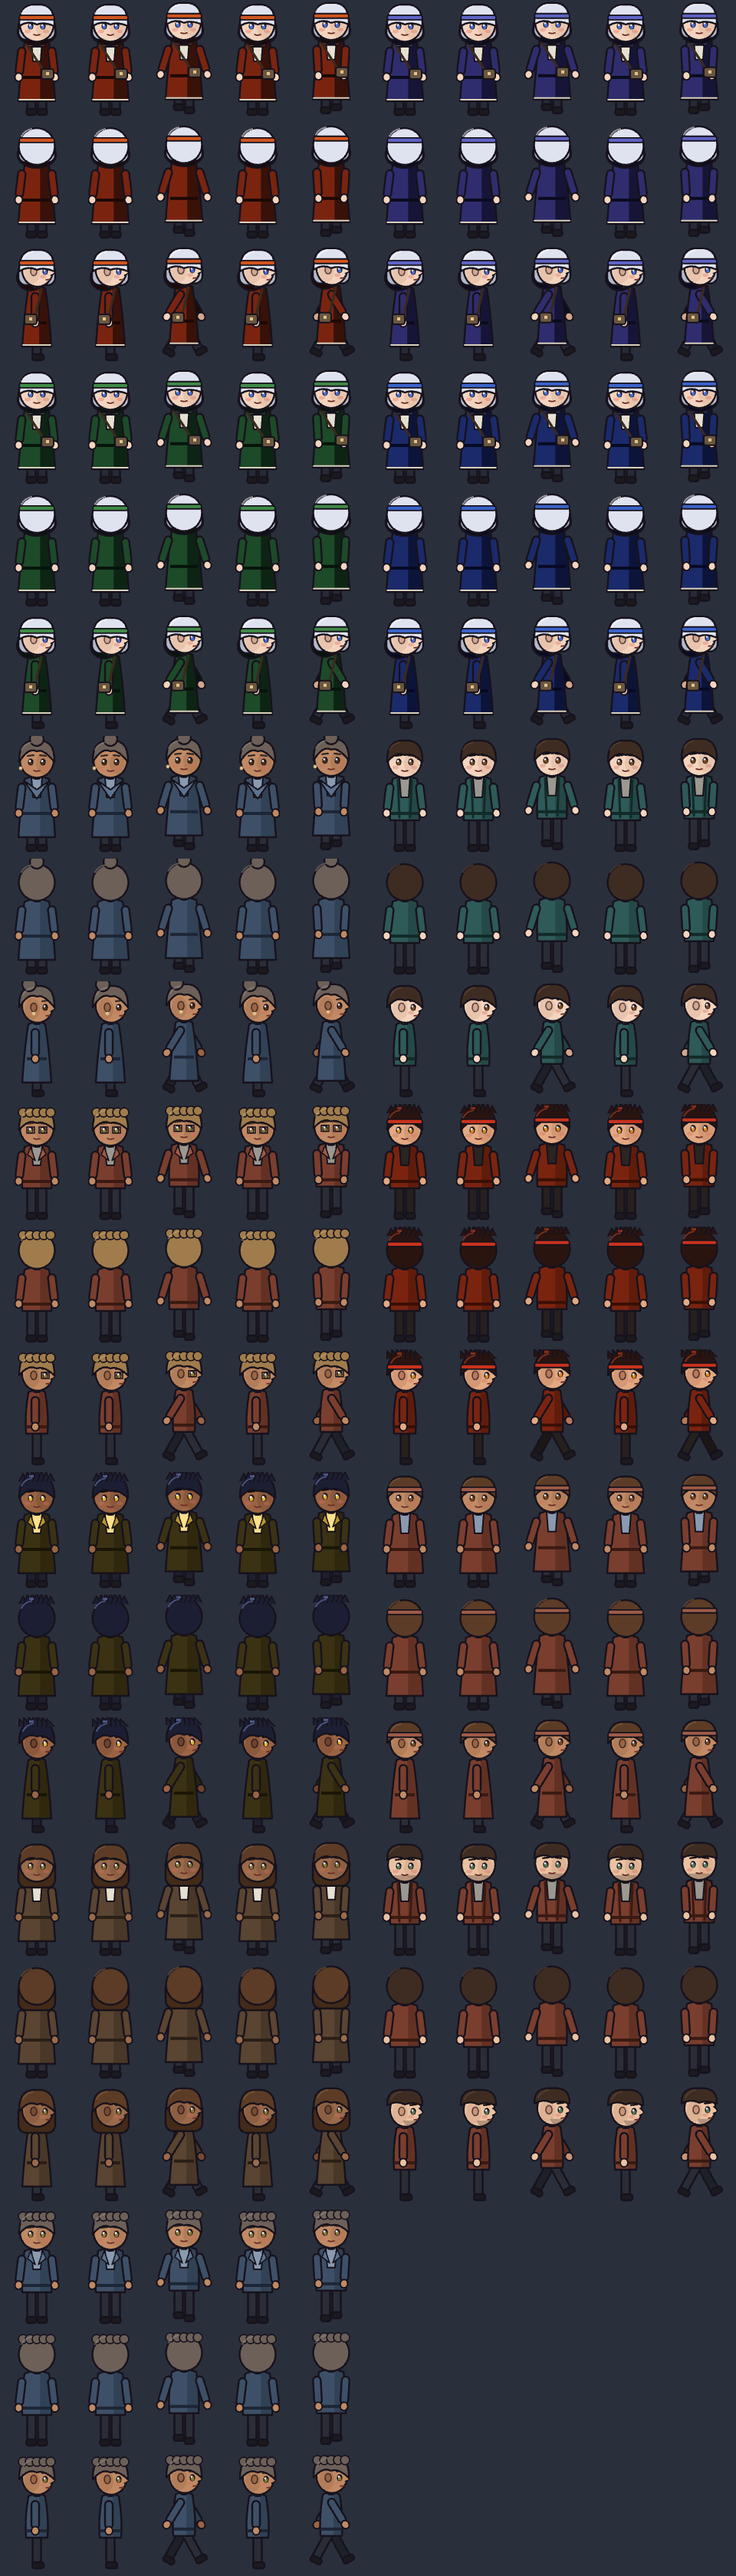
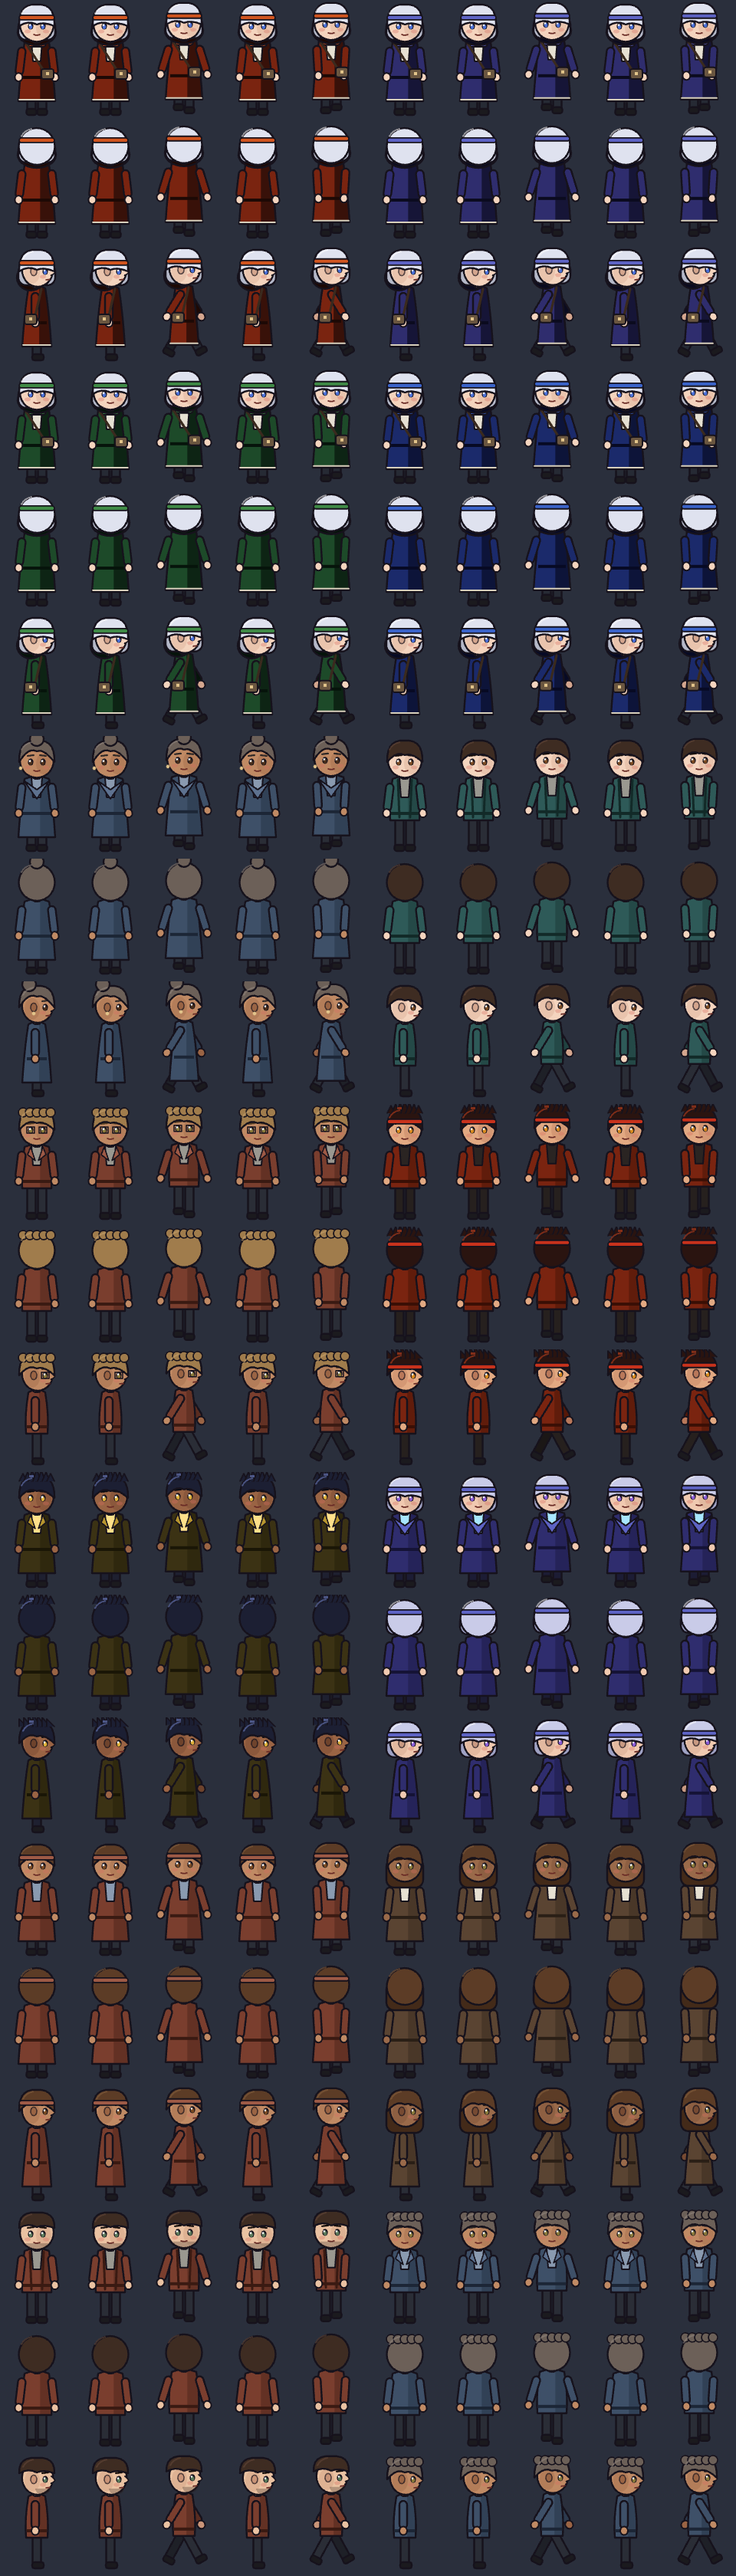
docs(rc08,m09): démarrage du build final mesuré en rondes alternées (accueil interactif ≈ 6 s plus tôt en SwiftShader) ; planche des marcheurs avec Sélène ; vues 1920 des Ruelles
Claude-Session: https://claude.ai/code/session_01MJuoEFnMq3GsTF1LAtUpmR

diff --git a/JOURNAL.md b/JOURNAL.md
@@ -1287,7 +1287,7 @@ Mettre aussi à jour les sections globales « À reprendre » et « Principes à
   - `[OK]` « Duels de la ville » dans la rue (`21632b8`) : `venue: 'rue'` ; test ; vérification ciblée dans le produit (`tools/rc08-ville-rue.mjs` : quatre PNJ → rue, Tournoi → salle, duel PNJ lancé dans la rue).
   - `[OK]` Contraste du rang « II » (`38b32a8`) : pastille sombre propre au chiffre, vignettes de l'éditeur de deck seulement ; quatre mesures (`tools/rc08-contraste-rang.mjs`) : « II » fond seul 14,3 → 19,2:1, boîte élargie (marge Windows) 13,1 → 18,6:1.
   - `[OK]` Retrait du V1 (`0f8c20a`) : exécuté par un sous-agent dans un worktree isolé, vérifié puis intégré par la session ; −1 176 lignes, −16,6 Ko de bundle ; ADR 021 amendement 5 ; rendu par défaut identique au pixel près (12 captures `l5-identique` et parcours produit `c1-identique`, témoins positifs).
-  - `[OK]` Démarrage : profil processeur du démarrage à froid (51 programmes WebGL liés au premier rendu ≈ 9,4 s en SwiftShader ; préchauffage des neuf portraits ≈ 7,7 s forcé dans la tâche de démarrage) ; préchauffage étalé un portrait par temps mort après la première image (`42f4562`) : écart DOMContentLoaded → accueil peint ≈ 6,2 s → ≈ 0,2 à 1,1 s.
+  - `[OK]` Démarrage : profil processeur du démarrage à froid (51 programmes WebGL liés au premier rendu ≈ 9,4 s en SwiftShader ; préchauffage des neuf portraits ≈ 7,7 s forcé dans la tâche de démarrage) ; préchauffage étalé un portrait par temps mort après la première image (`42f4562`) : écart DOMContentLoaded → accueil peint ≈ 6,2 s → ≈ 0,2 à 1,1 s ; contrôle alterné au build final (`0f8c20a` contre `e934f7a`, deux rondes chacun, machine calme) : accueil interactif 22,6 / 21,1 s → **16,3 / 15,7 s** (SwiftShader), une tâche longue de moins.
   - `[OK]` Version `0.8.0-rc.1` (schéma de sauvegarde inchangé) ; outils `rc08-demarrage`, `rc08-profil-demarrage`, `rc08-parcours`, `rc08-campagne.sh` ; `l5-identique` (`LQV_IDENT_RIVALS`), `c1-identique` (`LQV_C1_VP`) ; `LQV_QA_NAV_TIMEOUT` dans `qa-browser`, `qa-product`, `qa-rc` (défaut inchangé).
   - `[OK]` Piste préparée, non activée : `?qa=1&compileAsync=1` (premier rendu de l'arène après une compilation non bloquante si `KHR_parallel_shader_compile` existe) ; sans effet dans le cloud (extension absente en SwiftShader) ; à mesurer en local.
 - **Choix de la session (pas des décisions du responsable) :** pas de découpage du bundle (aucun gain mesurable : Three.js est nécessaire avant la première image de l'accueil) ; préchauffage étalé gardé (état final identique ; un état transitoire de l'écran Rencontres n'apparaît que sous forte charge, analysé dans `docs/RAPPORT_RC_0_8.md` §3.2) ; délais de navigation des outils rendus réglables plutôt que de modifier le premier rendu du jeu.

diff --git a/docs/RAPPORT_RC_0_8.md b/docs/RAPPORT_RC_0_8.md
@@ -127,7 +127,20 @@ d'échantillons) :
 
 **Correctif** (`42f4562`) : préchauffage **un portrait par temps mort, à partir de la première image peinte**. Écart
 DOMContentLoaded → accueil peint : **≈ 6,2 s → ≈ 0,15 à 1,1 s** (trois rondes de chaque côté, SwiftShader). Les valeurs
-absolues (DOMContentLoaded 11 à 19 s) dépendent de la charge du conteneur. Sur GPU réel, l'effet attendu est la
+absolues (DOMContentLoaded 11 à 19 s) dépendent de la charge du conteneur.
+
+**Contrôle sur le build final**, rondes **alternées** sur machine calme (profil neuf à chaque ronde,
+`artifacts/qa/rc08/demarrage-final/`) :
+
+| Ronde | Build | DOMContentLoaded | Accueil interactif | Écart | Tâches longues jusqu'à l'accueil | Premier duel |
+|---|---|---|---|---|---|---|
+| 1 | `0f8c20a` (avant le préchauffage étalé) | 14,5 s | 22,6 s | 8,1 s | 2 (14,4 s + 7,7 s) | 6,3 s |
+| 1 | `e934f7a` (final) | 14,9 s | 16,3 s | 1,4 s | 1 (14,8 s) | 2,3 s |
+| 2 | `0f8c20a` | 13,6 s | 21,1 s | 7,5 s | 2 (13,5 s + 7,2 s) | 2,4 s |
+| 2 | `e934f7a` | 14,2 s | 15,7 s | 1,6 s | 1 (14,0 s) | 1,8 s |
+
+L'accueil devient interactif **≈ 5,5 à 6,3 s plus tôt** en rendu logiciel ; la tâche longue restante est la liaison des
+programmes WebGL (C3, `compileAsync`). Sur GPU réel, l'effet attendu est la
 disparition d'une tâche longue de l'ordre de 9 × 20 ms au démarrage : **à mesurer sur le poste du responsable**.
 
 ### 5.3 Découpage du bundle : non fait

diff --git a/docs/FICHE_ARBITRAGES_M09.md b/docs/FICHE_ARBITRAGES_M09.md
@@ -63,7 +63,8 @@ Comment voir le travail :
 ### B5. Personnages de la ville et échéance d'Aseprite
 - **Contexte** : marcheurs dessinés par code dans l'esprit du V2 (aplats, contour, tête ≈ 1/3), couleurs et coupes des
   gabarits PNJ (ADR 023) ; joueur à capuche et besace d'après la référence de travail du 2026-10-19 (non approuvée).
-  Planche : `screenshots/qa/m09/marcheurs.png`.
+  Planche : `screenshots/qa/m09/marcheurs.png` (avec Sélène). Point connu : à cette échelle, un joueur de la voie du Voile
+  (manteau bleu, capuche claire) ressemble à Sélène (cheveux argentés, bandeau) ; à corriger avec les personnages clés.
 - **Recommandation** : garder ces marcheurs pour la démo ; ouvrir Aseprite pour les **personnages clés** (joueur, quatre
   rivaux) seulement après validation de la démo, par un amendement de la règle « aucune image externe » avec manifeste
   de provenance (comme Cité du Tournoi, `src/characters/BakedCast.ts`). **Raison** : la démo n'en dépend pas ; un
